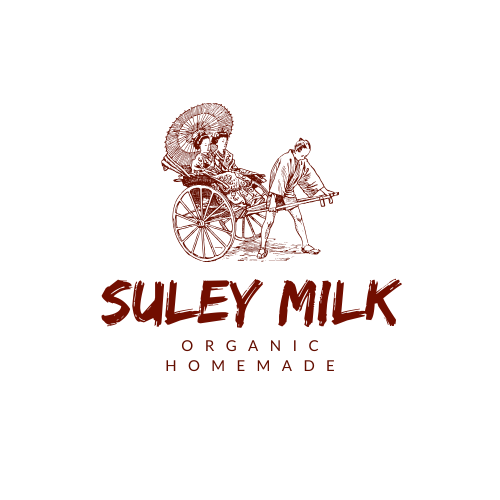
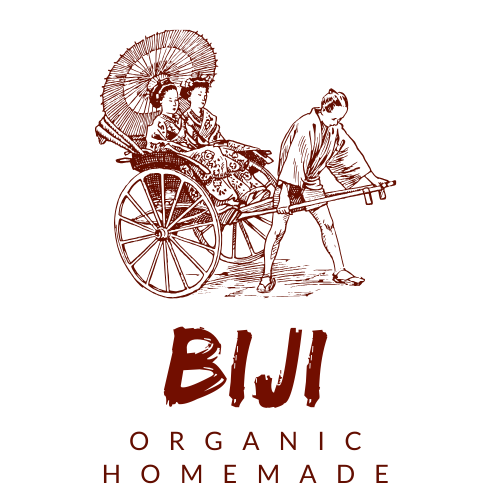
change of whole view

diff --git a/index.html b/index.html
@@ -5,8 +5,8 @@
     <meta name="viewport" content="width=device-width, initial-scale=1, shrink-to-fit=no" />
     <meta name="description" content="" />
     <meta name="author" content="" />
-    <title>Suley</title>
-    <link rel="icon" type="image/x-icon" href="assets/img/favicon.ico" />
+    <title>BIJI</title>
+    <link rel="icon" href="./IMG/ico.png">
     <!-- Font Awesome icons (free version)-->
 <script src="https://kit.fontawesome.com/a076d05399.js"></script>
 
@@ -41,8 +41,8 @@
     
 <header class="masthead">
     <div class="container">
-    <div class="masthead-subheading">Let's start our milky journey!</div>
-    <div class="masthead-heading text-uppercase">Come Aboard</div>            
+        <div class="masthead-subheading">Let's start our milky journey!</div>
+        <div class="masthead-heading text-uppercase">Come Aboard</div>            
        <a class="btn btn-primary btn-xl text-uppercase js-scroll-trigger" href="#services">Tell Me More</a>
     </div>
 </header>
@@ -62,8 +62,8 @@
             </div>
             <div class="col-md-4">
                 
-                <h4 class="my-3">Cow Milk</h4>
-                <p class="text-muted">We all love to try new things once in a while, but replacing the taste of the original cow milk is something else.</p>
+                <h4 class="my-3">Multigrain Milk</h4>
+                <p class="text-muted">How is it to have the good of 6 super food inside a bpttle of milk you can sip anytime of the day?.</p>
             </div>
             <div class="col-md-4">
                 
@@ -78,7 +78,7 @@
     <div class="container">
         <div class="text-center">
             <h2 class="section-heading text-uppercase">Fittest Benefits</h2>
-            <h3 class="section-subheading text-muted">Because the heavenly taste is just another bonus.</h3>
+            <h3 class="section-subheading text-muted">Not only taste, our hand-crafted organic milk is also here to help you boost your immune.</h3>
         </div>
         <div class="row">
             <div class="col-lg-4 col-sm-6 mb-4">
@@ -87,10 +87,10 @@
                         <div class="portfolio-hover">
                             <div class="portfolio-hover-content"><i class="fas fa-plus fa-3x" ></i></div>
                         </div>
-                        <img class="img-fluid" src="./IMG/milk.jpg" alt="" />
+                        <img class="img-fluid" src="./IMG/multi.jpg" alt="" />
                     </a>
                     <div class="portfolio-caption">
-                        <div class="portfolio-caption-heading">Wow Cow</div>
+                        <div class="portfolio-caption-heading">Ultimate Multigrain</div>
                         <div class="portfolio-caption-subheading text-muted">Try to click me!</div>
                     </div>
                 </div>
@@ -134,15 +134,12 @@
                                 <div class="col-lg-8">
                                     <div class="modal-body">
                                         <!-- Project Details Go Here-->
-                                        <h2 class="text-uppercase">cow milk</h2>
+                                        <h2 class="text-uppercase">multigrain milk</h2>
                                         <p class="item-intro text-muted">your daily dairy</p>
-                                        <img class="img-fluid d-block mx-auto" src="./IMG/milk.jpg" alt="" />
-                                        Admit it, even without the benefit, we all still love the taste of the texture it has. 
-                        But beside the creamy and addictive goods we know since baby, milk is also packed with 
-                        tons of nutrients that may keep you from gaining weight. What a contrary of popular beliefs!
-                        Not only that, as a source of protein and calcium milk can keep you from aging too soon. 
-                        Now what they say, a milk a day, keep the doctors away.
-                        .</p>
+                                        <img class="img-fluid d-block mx-auto" src="./IMG/multi.jpg" alt="" />
+                                        Crafted with the best organic beans we can find, a bottle of multigrain milk consisiting of green beans, soybeans, adzuki, barley, black sesame, and black bean is ready to save your day.
+                                        Combined benefit that can help you with bad posture and appetite, also can show the inner glow of your skin by taking it in a daily dose. Moreover, what is aging? The drinker of this milk is a stranger to old age!
+                        </p>
                                         <button class="btn btn-primary" data-dismiss="modal" type="button">
                                             <i class="fas fa-times mr-1"></i>
                                             Close Project
@@ -220,12 +217,12 @@
                     </div>
                 <div class="text-white text-center">
                     <a
-            href="https://instagram.com/suleymilk"
+            href="https://instagram.com/bijimilk"
             target="_blank"
             class="btn contact-details text-white"
             ><i class="fab fa-instagram"></i> Instagram</a
           >
-          <a href="mailto:byansakura14@gmail.com" class="btn contact-details text-white"
+          <a href="mailto:bijimilk4@gmail.com" class="btn contact-details text-white"
             ><i class="fas fa-at"></i> Send a mail</a
           >
           <a href="tel:08113173388" class="btn contact-details text-white"

diff --git a/s.css b/s.css
@@ -8681,7 +8681,7 @@ header.masthead {
   padding-bottom: 2rem;
   text-align: center;
   color: #fff;
-  background-image: url("./IMG/bn.png");
+  background-image: url("./IMG/br.jpg");
   background-repeat: no-repeat;
   background-attachment: scroll;
   background-position: center center;
